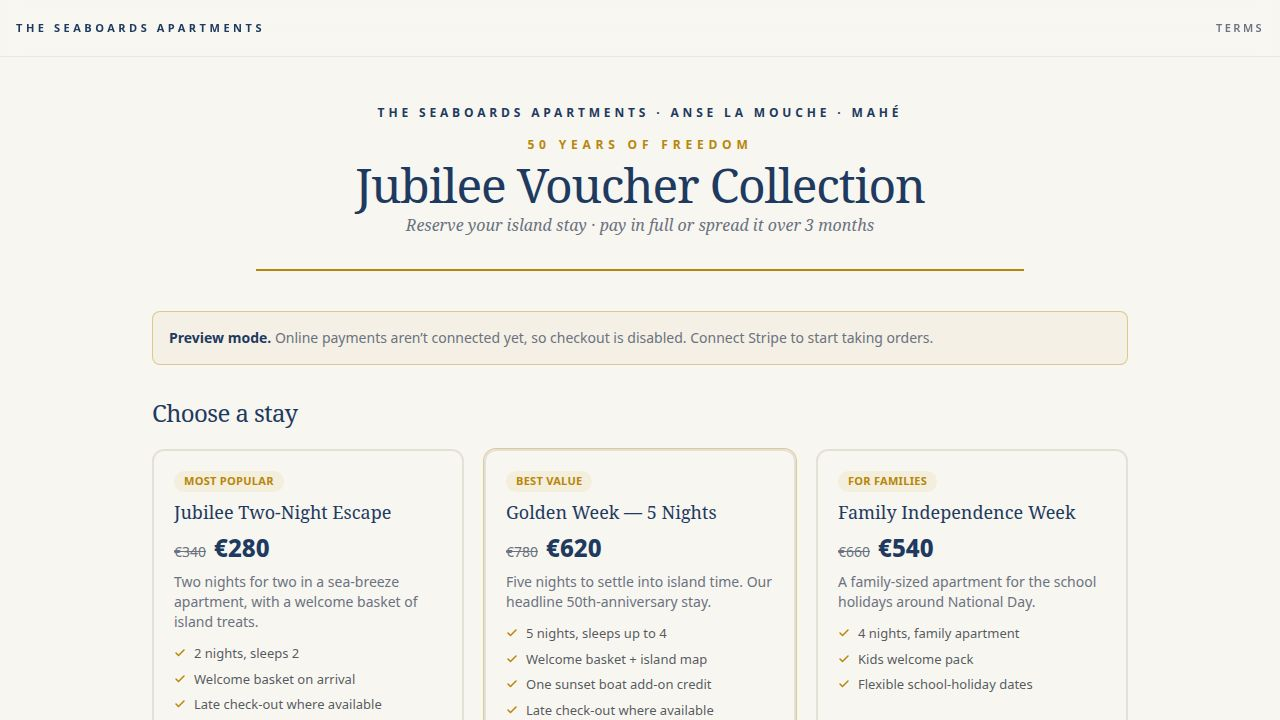
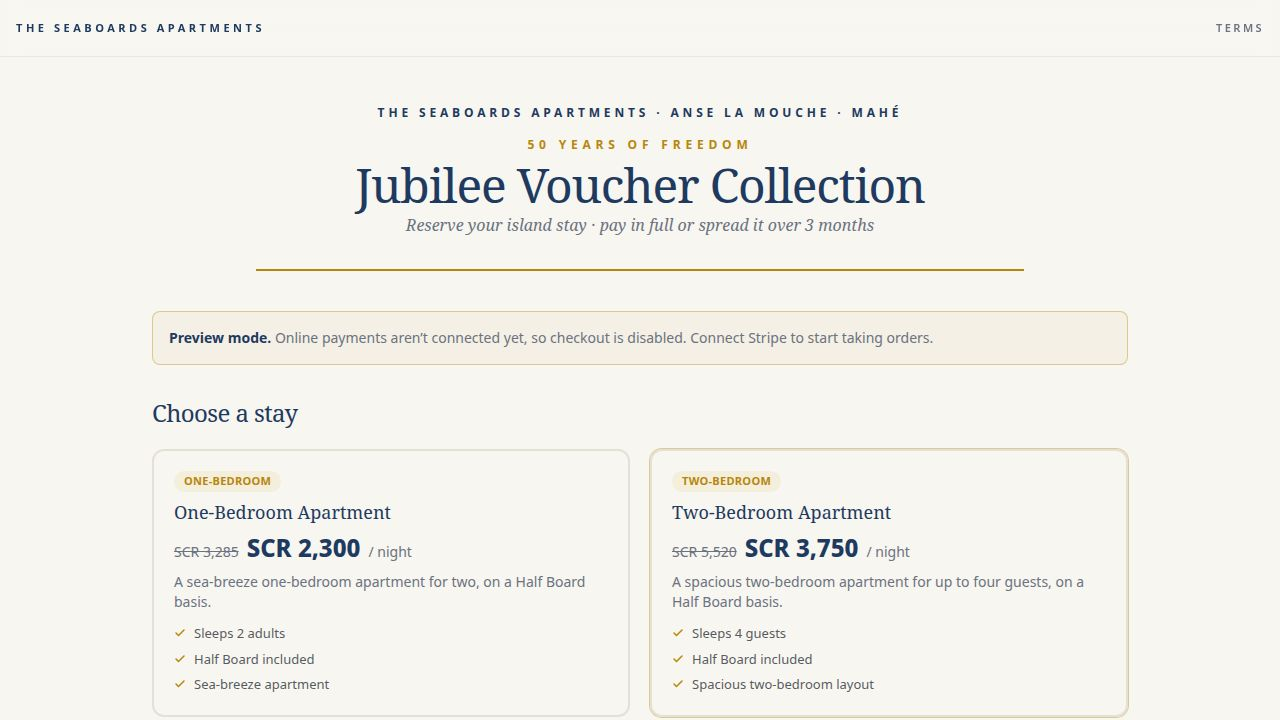
Per-night apartment vouchers on the storefront
Task #1: Replace the three fixed "Choose a stay" packages with two
per-night apartment types and a nights selector; switch storefront
currency to SCR.

Server (artifacts/api-server/src/lib/storeCatalog.ts):
- Default storefront currency now SCR; SYMBOLS.scr label is "SCR ".
- CatalogItem gains `rate` (was `price`) + `minNights`; CATALOG now holds
  One-Bedroom (SCR 2,300/night, was 3,285) and Two-Bedroom
  (SCR 3,750/night, was 5,520), both min 1 night, Half Board.
- priceFor computes rate × nights server-side and rejects unknown items
  or nights below minNights; nameFor records the chosen night count.

Server (storefront.ts): createStoreOrder threads a `nights` field into
priceFor/nameFor so the order total and product name reflect nights.

API contract (lib/api-spec/openapi.yaml): StorefrontCatalogItem now uses
`rate` + `minNights`; StoreOrderInput gains nullable integer `nights`.
Regenerated typed hooks/zod via api-spec codegen.

Storefront (artifacts/group-vouchers/src/pages/home.tsx): two apartment
cards (grid 2-col) showing per-night SCR price with struck-through was; a
nights stepper (min = item.minNights) appears on selection with a live
total that drives pay-in-full / pay-in-3 amounts; nights passed into
checkout. Gift voucher section and /group-order link unchanged.

Deviations: none. Out of scope (per task) untouched: Stripe connection,
date/calendar booking, SCR-vs-charge-currency settlement. Preview mode
[…]

Changed region(s): [[0.125, 0.6417, 0.875, 1.0], [0.125, 0.6417, 0.2188, 0.6722], [0.625, 0.6111, 0.6562, 0.6417]]

diff --git a/artifacts/group-vouchers/src/pages/home.tsx b/artifacts/group-vouchers/src/pages/home.tsx
@@ -31,6 +31,8 @@ import {
   ArrowLeft,
   Users,
   Gift,
+  Minus,
+  Plus,
 } from "lucide-react";
 
 type Selection =
@@ -62,8 +64,7 @@ export default function Home() {
       <Layout>
         <div className="container max-w-5xl mx-auto px-6 py-16 space-y-8">
           <Skeleton className="h-10 w-2/3 mx-auto" />
-          <div className="grid sm:grid-cols-3 gap-5">
-            <Skeleton className="h-72 w-full" />
+          <div className="grid sm:grid-cols-2 gap-5">
             <Skeleton className="h-72 w-full" />
             <Skeleton className="h-72 w-full" />
           </div>
@@ -80,6 +81,7 @@ function Storefront({ config }: { config: StorefrontConfig }) {
   const symbol = config.symbol || config.currency.toUpperCase() + " ";
 
   const [selection, setSelection] = useState<Selection | null>(null);
+  const [nights, setNights] = useState(1);
   const [giftAmount, setGiftAmount] = useState<string>("");
   const [plan, setPlan] = useState<"full" | "instalments">("full");
   const [name, setName] = useState("");
@@ -93,7 +95,7 @@ function Storefront({ config }: { config: StorefrontConfig }) {
 
   const total = selection
     ? selection.kind === "package"
-      ? selection.item.price
+      ? selection.item.rate * nights
       : selection.amount
     : 0;
   const perInstalment =
@@ -118,6 +120,7 @@ function Storefront({ config }: { config: StorefrontConfig }) {
           product_id:
             selection.kind === "package" ? selection.item.id : undefined,
           amount: selection.kind === "gift" ? selection.amount : undefined,
+          nights: selection.kind === "package" ? nights : undefined,
           plan: plan === "instalments" ? String(config.instalments) : undefined,
           name,
           email,
@@ -190,7 +193,7 @@ function Storefront({ config }: { config: StorefrontConfig }) {
         )}
 
         <h2 className="font-serif text-primary text-2xl mb-5">Choose a stay</h2>
-        <div className="grid sm:grid-cols-3 gap-5">
+        <div className="grid sm:grid-cols-2 gap-5">
           {config.catalog.map((item) => {
             const active =
               selection?.kind === "package" && selection.item.id === item.id;
@@ -198,7 +201,10 @@ function Storefront({ config }: { config: StorefrontConfig }) {
               <button
                 key={item.id}
                 type="button"
-                onClick={() => setSelection({ kind: "package", item })}
+                onClick={() => {
+                  setSelection({ kind: "package", item });
+                  setNights((n) => Math.max(n, item.minNights));
+                }}
                 className={`text-left rounded-xl border-2 p-5 transition-all flex flex-col ${
                   active
                     ? "border-primary bg-primary/5 shadow-md"
@@ -214,13 +220,14 @@ function Storefront({ config }: { config: StorefrontConfig }) {
                 <div className="font-serif text-lg text-primary leading-snug">
                   {item.name}
                 </div>
-                <div className="mt-2">
-                  <span className="text-muted-foreground line-through text-sm mr-2">
+                <div className="mt-2 flex items-baseline gap-2">
+                  <span className="text-muted-foreground line-through text-sm">
                     {money(symbol, item.was)}
                   </span>
                   <span className="text-2xl font-extrabold text-primary">
-                    {money(symbol, item.price)}
+                    {money(symbol, item.rate)}
                   </span>
+                  <span className="text-sm text-muted-foreground">/ night</span>
                 </div>
                 <p className="text-sm text-muted-foreground mt-2">{item.desc}</p>
                 <ul className="mt-3 space-y-1.5">
@@ -241,6 +248,63 @@ function Storefront({ config }: { config: StorefrontConfig }) {
             );
           })}
         </div>
+
+        {selection?.kind === "package" && (
+          <div className="mt-5 rounded-xl border-2 border-primary/30 bg-primary/5 p-5 flex flex-col sm:flex-row sm:items-center sm:justify-between gap-4">
+            <div>
+              <div className="font-serif text-lg text-primary">
+                How many nights?
+              </div>
+              <p className="text-sm text-muted-foreground">
+                {money(symbol, selection.item.rate)} / night &middot;{" "}
+                {selection.item.name}
+              </p>
+            </div>
+            <div className="flex items-center gap-5">
+              <div className="flex items-center gap-3">
+                <Button
+                  type="button"
+                  variant="outline"
+                  size="icon"
+                  className="h-10 w-10 rounded-full"
+                  aria-label="Fewer nights"
+                  disabled={nights <= selection.item.minNights}
+                  onClick={() =>
+                    setNights((n) =>
+                      Math.max(selection.item.minNights, n - 1),
+                    )
+                  }
+                >
+                  <Minus className="w-4 h-4" />
+                </Button>
+                <span
+                  className="w-10 text-center text-2xl font-extrabold text-primary tabular-nums"
+                  aria-live="polite"
+                >
+                  {nights}
+                </span>
+                <Button
+                  type="button"
+                  variant="outline"
+                  size="icon"
+                  className="h-10 w-10 rounded-full"
+                  aria-label="More nights"
+                  onClick={() => setNights((n) => n + 1)}
+                >
+                  <Plus className="w-4 h-4" />
+                </Button>
+              </div>
+              <div className="text-right">
+                <div className="text-xs uppercase tracking-wide text-muted-foreground">
+                  Total
+                </div>
+                <div className="text-2xl font-extrabold text-primary tabular-nums">
+                  {money(symbol, total)}
+                </div>
+              </div>
+            </div>
+          </div>
+        )}
 
         <div className="mt-8 rounded-xl border-2 border-border p-5">
           <div className="flex items-center gap-2 mb-1">

diff --git a/artifacts/api-server/src/lib/storeCatalog.ts b/artifacts/api-server/src/lib/storeCatalog.ts
@@ -8,14 +8,15 @@
 export const SYMBOLS: Record<string, string> = {
   eur: "€",
   usd: "$",
-  scr: "₨",
+  scr: "SCR ",
   gbp: "£",
 };
 
 export const SETTINGS = {
-  // Stripe settles in the currencies your account country allows; SCR is usually
-  // not supported, so the storefront defaults to EUR. Override with STORE_CURRENCY.
-  currency: (process.env.STORE_CURRENCY || "eur").toLowerCase(),
+  // Prices are shown in SCR per the resort's request. Stripe almost never
+  // settles SCR, so when live payments are connected the charge currency will
+  // need revisiting (e.g. display SCR but charge EUR). Override with STORE_CURRENCY.
+  currency: (process.env.STORE_CURRENCY || "scr").toLowerCase(),
   instalments: Number(process.env.INSTALMENTS || 3),
   intervalDays: Number(process.env.INTERVAL_DAYS || 30),
   // "paid" = issue only when fully paid (safer); "deposit" = issue after instalment 1.
@@ -28,58 +29,37 @@ export interface CatalogItem {
   ribbon: string;
   featured: boolean;
   name: string;
-  price: number;
+  rate: number;
   was: number;
+  minNights: number;
   desc: string;
   feat: string[];
 }
 
 export const CATALOG: CatalogItem[] = [
   {
-    id: "twonight",
+    id: "one-bedroom",
     type: "package",
-    ribbon: "Most popular",
+    ribbon: "One-Bedroom",
     featured: false,
-    name: "Jubilee Two-Night Escape",
-    price: 280,
-    was: 340,
-    desc: "Two nights for two in a sea-breeze apartment, with a welcome basket of island treats.",
-    feat: [
-      "2 nights, sleeps 2",
-      "Welcome basket on arrival",
-      "Late check-out where available",
-    ],
+    name: "One-Bedroom Apartment",
+    rate: 2300,
+    was: 3285,
+    minNights: 1,
+    desc: "A sea-breeze one-bedroom apartment for two, on a Half Board basis.",
+    feat: ["Sleeps 2 adults", "Half Board included", "Sea-breeze apartment"],
   },
   {
-    id: "goldenweek",
+    id: "two-bedroom",
     type: "package",
-    ribbon: "Best value",
+    ribbon: "Two-Bedroom",
     featured: true,
-    name: "Golden Week — 5 Nights",
-    price: 620,
-    was: 780,
-    desc: "Five nights to settle into island time. Our headline 50th-anniversary stay.",
-    feat: [
-      "5 nights, sleeps up to 4",
-      "Welcome basket + island map",
-      "One sunset boat add-on credit",
-      "Late check-out where available",
-    ],
-  },
-  {
-    id: "family",
-    type: "package",
-    ribbon: "For families",
-    featured: false,
-    name: "Family Independence Week",
-    price: 540,
-    was: 660,
-    desc: "A family-sized apartment for the school holidays around National Day.",
-    feat: [
-      "4 nights, family apartment",
-      "Kids welcome pack",
-      "Flexible school-holiday dates",
-    ],
+    name: "Two-Bedroom Apartment",
+    rate: 3750,
+    was: 5520,
+    minNights: 1,
+    desc: "A spacious two-bedroom apartment for up to four guests, on a Half Board basis.",
+    feat: ["Sleeps 4 guests", "Half Board included", "Spacious two-bedroom layout"],
   },
 ];
 
@@ -96,10 +76,12 @@ export function priceFor({
   productId,
   type,
   amount,
+  nights,
 }: {
   productId?: string;
   type?: string;
   amount?: number;
+  nights?: number;
 }): number | null {
   if (type === "gift") {
     const a = Number(amount);
@@ -107,16 +89,27 @@ export function priceFor({
     return Math.round(a * 100) / 100;
   }
   const item = CATALOG.find((v) => v.id === productId);
-  return item ? item.price : null;
+  if (!item) return null;
+  const n = Number(nights);
+  if (!Number.isInteger(n) || n < item.minNights) return null;
+  return Math.round(item.rate * n * 100) / 100;
 }
 
 export function nameFor({
   productId,
   type,
+  nights,
 }: {
   productId?: string;
   type?: string;
+  nights?: number;
 }): string {
   if (type === "gift") return GIFT.name;
-  return CATALOG.find((v) => v.id === productId)?.name || "Voucher";
+  const item = CATALOG.find((v) => v.id === productId);
+  if (!item) return "Voucher";
+  const n = Number(nights);
+  if (Number.isInteger(n) && n > 0) {
+    return `${item.name} — ${n} night${n === 1 ? "" : "s"}`;
+  }
+  return item.name;
 }

diff --git a/artifacts/api-server/src/lib/storefront.ts b/artifacts/api-server/src/lib/storefront.ts
@@ -52,6 +52,7 @@ interface CreateOrderInput {
   product_id?: string | null;
   type?: string;
   amount?: number | null;
+  nights?: number | null;
   plan?: string | null;
   name: string;
   email: string;
@@ -64,15 +65,24 @@ type CreateOrderResult =
 export async function createStoreOrder(
   input: CreateOrderInput,
 ): Promise<CreateOrderResult> {
-  const { product_id, type = "package", amount, plan, name, email } = input;
+  const { product_id, type = "package", amount, nights, plan, name, email } = input;
   if (!name?.trim() || !email?.includes("@")) {
     return { error: "invalid_buyer" };
   }
 
   // Price comes from the catalog, never from the client.
-  const total = priceFor({ productId: product_id ?? undefined, type, amount: amount ?? undefined });
+  const total = priceFor({
+    productId: product_id ?? undefined,
+    type,
+    amount: amount ?? undefined,
+    nights: nights ?? undefined,
+  });
   if (total === null) return { error: "invalid_selection" };
-  const productName = nameFor({ productId: product_id ?? undefined, type });
+  const productName = nameFor({
+    productId: product_id ?? undefined,
+    type,
+    nights: nights ?? undefined,
+  });
 
   const payInN =
     String(plan) === String(SETTINGS.instalments) ||
